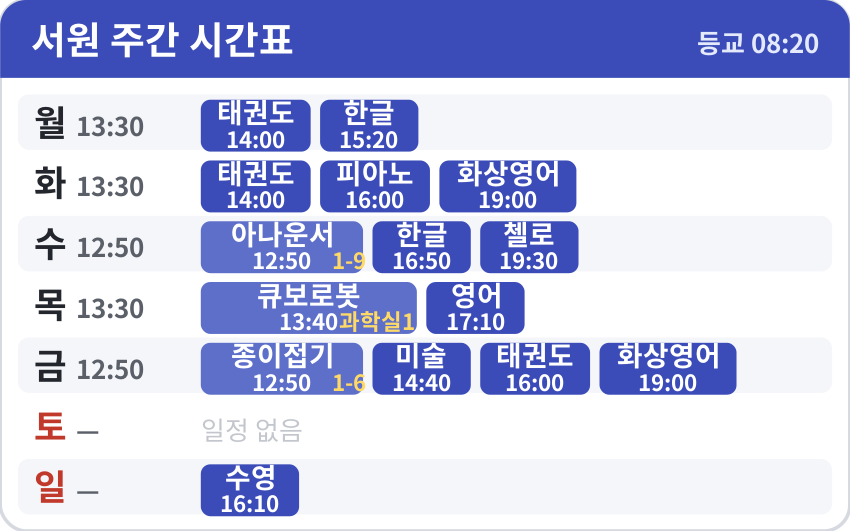
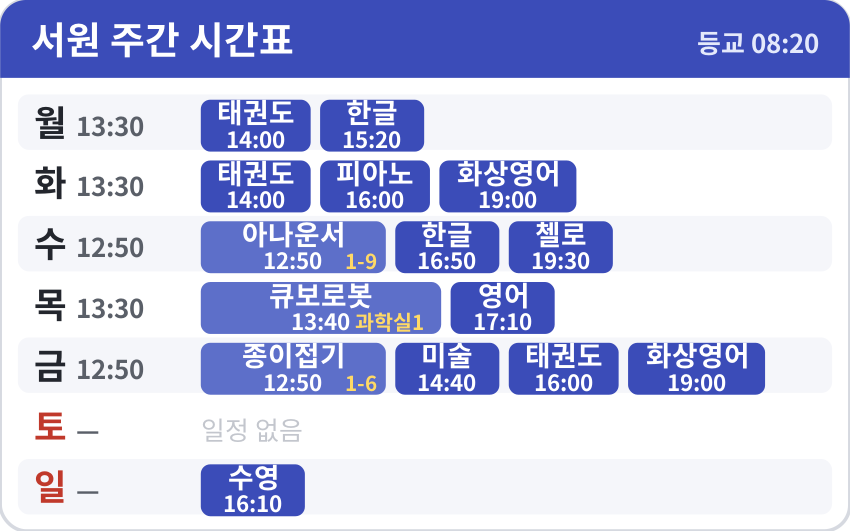
장소 있는 칩 폭 확대: 교실 표기가 박스 밖으로 나가지 않도록

Changed region(s): [[0.2753, 0.3917, 0.9176, 0.7533], [0.3976, 0.1808, 0.52, 0.3013], [0.2447, 0.8738, 0.3671, 0.9642]]

diff --git a/make_card_small.py b/make_card_small.py
@@ -60,11 +60,11 @@ def landscape(W=72.0,H=45.0,ox=0,oy=0):
             label=nm(it); c=COL.get(it["cat"],COL["기타"])
             pl=it["place"] if (it.get("place") and it["cat"]=="방과후") else ""
             sub=it["s"]+((" "+pl) if pl else "")
-            bw=max(wid(label,2.35),(wid(it["s"],1.9)+(wid(pl,2.0)+1.4 if pl else 0))*1.2)+2.4
+            bw=max(wid(label,2.35),(wid(it["s"],1.9)+(wid(pl,1.9) if pl else 0))*1.3)+(5.4 if pl else 2.4)
             if x+bw>W-2.4: break
             o.append(f'<rect x="{x:.2f}" y="{y+0.25:.2f}" width="{bw:.2f}" height="4.4" rx="0.8" fill="{c}"/>')
             o.append(f'<text x="{x+bw/2:.2f}" y="{y+2.25:.2f}" font-family="{F}" font-size="2.35" font-weight="bold" fill="#FFFFFF" text-anchor="middle">{label}</text>')
-            o.append(f'<text x="{x+bw/2:.2f}" y="{y+4.3:.2f}" font-family="{F}" font-size="1.9" font-weight="bold" fill="#FFFFFF" text-anchor="middle">{it["s"]}<tspan dx="0.7" fill="#FFD966" font-weight="bold">{pl}</tspan></text>')
+            o.append(f'<text x="{x+bw/2:.2f}" y="{y+4.3:.2f}" font-family="{F}" font-size="1.9" font-weight="bold" fill="#FFFFFF" text-anchor="middle">{it["s"]}<tspan dx="0.8" font-size="1.75" fill="#FFD966" font-weight="bold">{pl}</tspan></text>')
             x+=bw+0.8
         if not acts(d):
             o.append(f'<text x="17.0" y="{y+3.3:.2f}" font-family="{F}" font-size="2.2" fill="#C3C6CD">일정 없음</text>')
